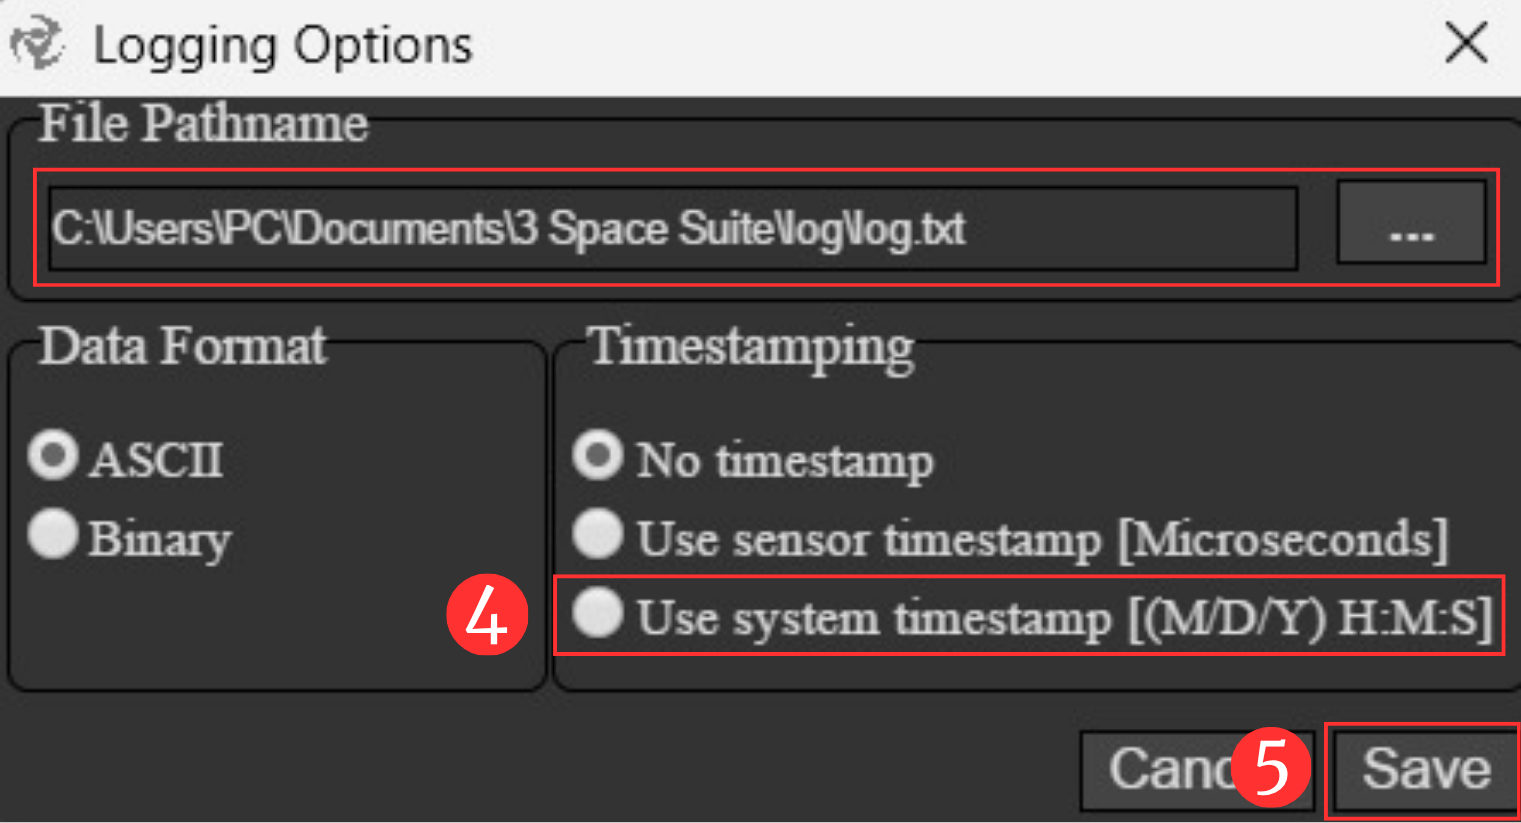
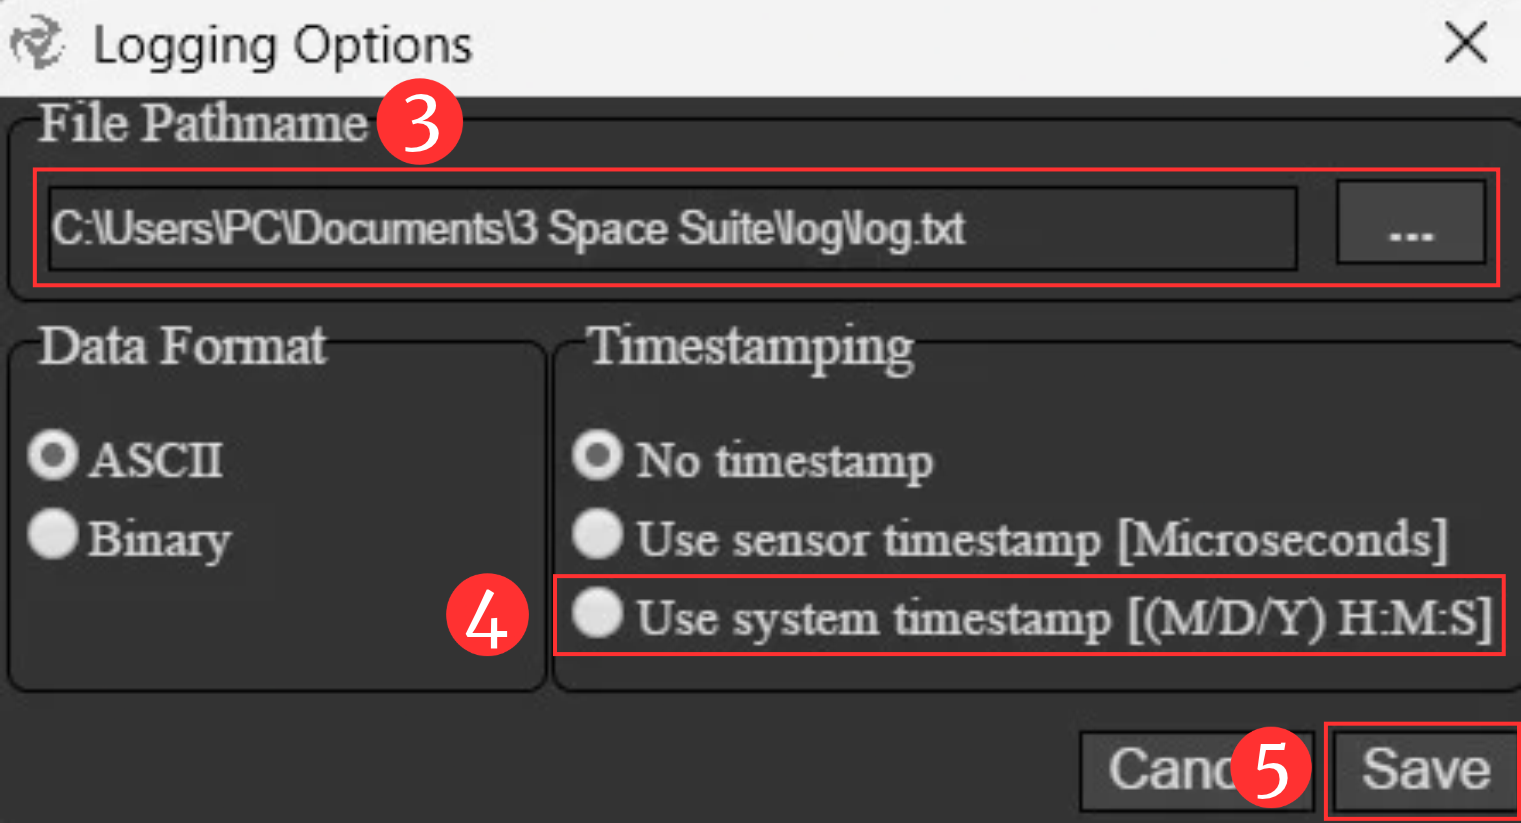
Correção de erro nas imagens.

diff --git a/README.md b/README.md
@@ -77,11 +77,11 @@ Utilize os botões destacados na imagem da etapa anterior.
 
 ![Janela Data Charts, com as seleções dos dados 1, Logging Options 2 e Start Logging 6](/tutoriais/primeira_coleta/imagens/graficos_coleta.png)
 
+![Janela Logging Options, com File Pathname na parte superior, Use system timestamp 4 e Save 5](file:///tutoriais/primeira_coleta/imagens/configuracao_coleta.png?msec=1792540303828)
+
 4. **Defina o arquivo de saída:** Na janela **Logging Options**, utilize o campo **File Pathname** e o botão **...** para escolher a pasta e o nome do arquivo `.txt` em que deseja salvar os dados.
 5. **Configure o registro de tempo:** Na seção **Timestamping**, selecione **Use system timestamp (4)**.
 6. **Salve as configurações:** Clique em **Save (5)**.
-
-![Janela Logging Options, com File Pathname na parte superior, Use system timestamp 4 e Save 5](/tutoriais/primeira_coleta/imagens/configuracao_coleta.png)
 
 7. **Inicie a gravação:** De volta à janela de gráficos, clique em **Start Logging (6)**, destacado na imagem dos gráficos.
 8. **Encerre a gravação:** Quando terminar a coleta, clique em **Stop Logging**, que aparece na mesma posição do botão **Start Logging**.
